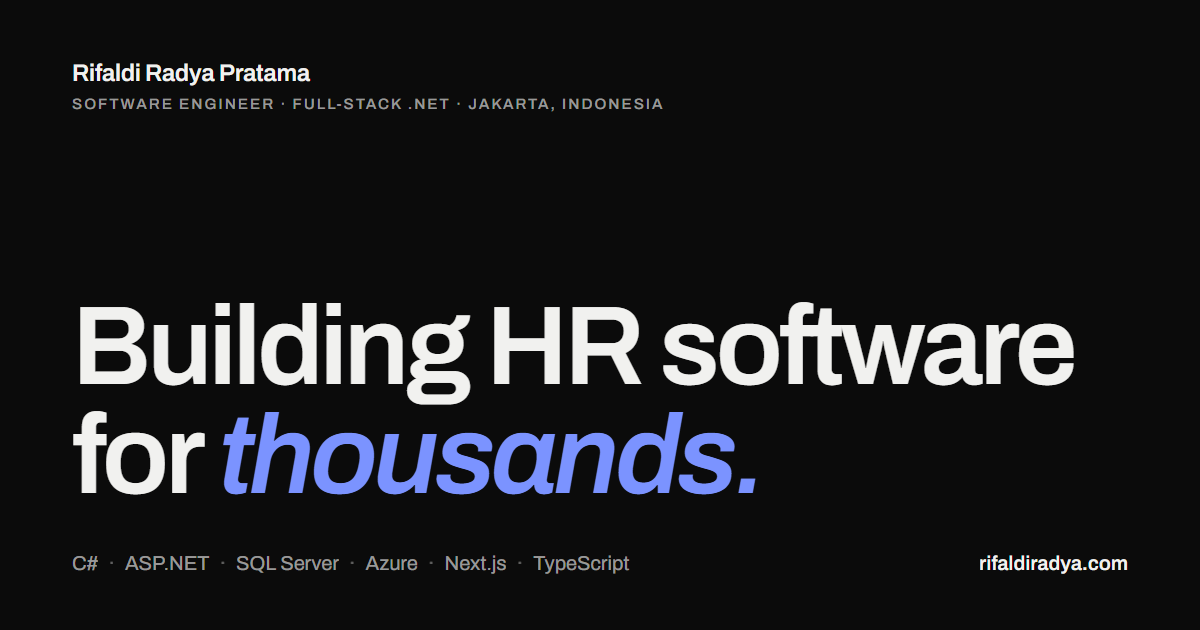
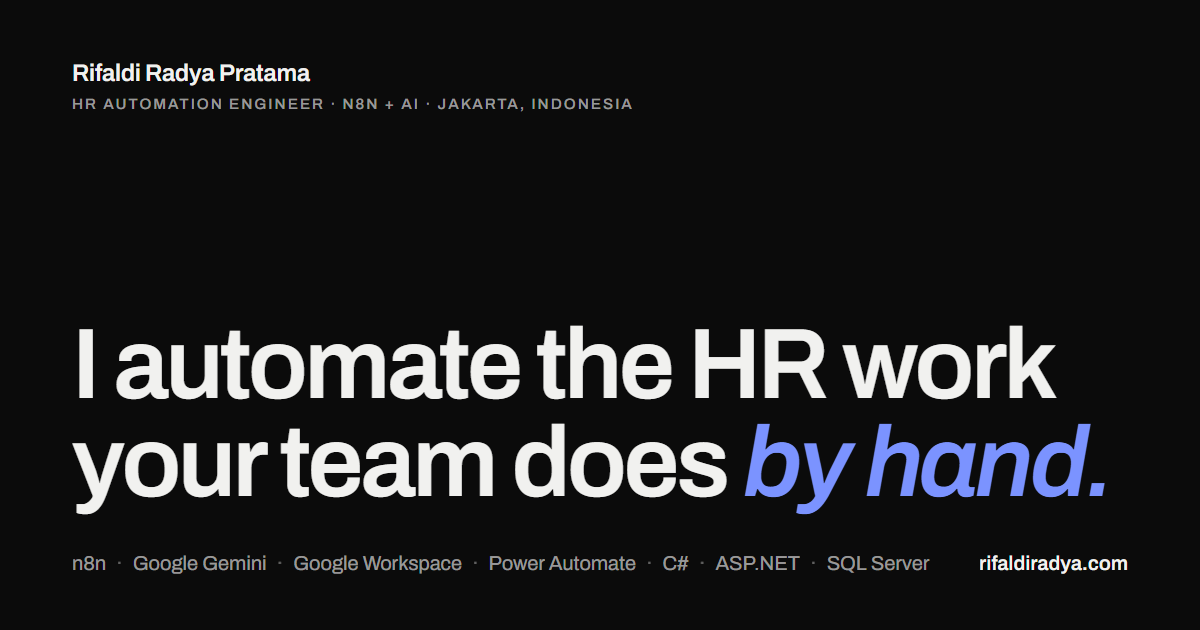
feat: reposition the site as an HR automation engineer (T-44)
Hero, availability, SEO titles/descriptions, OG images, Highlight meta,
Contact copy and both automation-client email bodies (EN/ID). JSON-LD
jobTitle is HR Automation Engineer with no worksFor; the stack line leads
with n8n and keeps .NET as proof. The employer stays only in About (D-41).
Contact puts the project email first (D-44).

Changed region(s): [[0.0617, 0.4825, 0.925, 0.8143], [0.0617, 0.8746, 0.7708, 0.9048], [0.0617, 0.1508, 0.555, 0.181]]

diff --git a/tests/unit/site-config.test.ts b/tests/unit/site-config.test.ts
@@ -21,20 +21,22 @@ describe("mailtoHref", () => {
 
   it("project: subject and body in the page language", () => {
     expect(mailtoHref(en, "project")).toContain(
-      "subject=Project%3A%20&body=What%20you%20need%20built%3A",
+      "subject=Project%3A%20&body=The%20HR%20process%20you%20want%20to%20automate%3A",
     );
     expect(mailtoHref(id, "project")).toContain(
-      "subject=Proyek%3A%20&body=Yang%20ingin%20dibangun%3A",
+      "subject=Proyek%3A%20&body=Proses%20HR%20yang%20ingin%20diotomasi%3A",
     );
   });
 
   it("walkthrough names the project in the subject (D-25)", () => {
     expect(mailtoHref(en, "walkthrough", "Single Sign-On")).toContain(
-      "subject=Walkthrough%3A%20Single%20Sign-On&body=Company%3A",
+      "subject=Walkthrough%3A%20Single%20Sign-On&body=Company%20and%20team%20size%3A",
     );
     expect(mailtoHref(id, "walkthrough", "HR System")).toContain(
-      "subject=Walkthrough%3A%20HR%20System&body=Perusahaan%3A",
+      "subject=Walkthrough%3A%20HR%20System&body=Perusahaan%20dan%20jumlah%20karyawan%3A",
     );
+    // The walkthrough body asks automation clients about their process, not a hiring role.
+    expect(decodeURIComponent(mailtoHref(en, "walkthrough", "x"))).not.toContain("hiring");
   });
 
   it("encodes characters that would break the query", () => {
@@ -55,5 +57,29 @@ describe("siteConfig", () => {
 
   it("serves the CV from public/cv", () => {
     expect(siteConfig.cvPath).toMatch(/^\/cv\/[a-z-]+\.pdf$/);
+  });
+});
+
+// D-41: the employer is track record in About (and the CV), never headline copy, meta or schema.
+describe("employer name", () => {
+  const paths = (value: unknown, prefix = ""): [string, string][] =>
+    typeof value === "string"
+      ? [[prefix, value]]
+      : Object.entries(value as object).flatMap(([key, child]) =>
+          paths(child, prefix ? `${prefix}.${key}` : key),
+        );
+
+  it.each([
+    ["en", en],
+    ["id", id],
+  ] as const)("%s dictionary names it only in about.p1", (_, dict) => {
+    const hits = paths(dict)
+      .filter(([, text]) => /panasonic/i.test(text))
+      .map(([path]) => path);
+    expect(hits).toEqual(["about.p1"]);
+  });
+
+  it("is not in the site config (hero stack, JSON-LD)", () => {
+    expect(JSON.stringify(siteConfig)).not.toMatch(/panasonic/i);
   });
 });

diff --git a/tests/e2e/home.spec.ts b/tests/e2e/home.spec.ts
@@ -23,7 +23,7 @@ test("chapters in order: Hero, Selected work, About, Highlight, Contact", async 
   expect(ids.filter((id) => id !== "work")).toEqual(["top", "about", "highlight", "contact"]);
   expect(ids.indexOf("work")).toBeLessThan(2);
   await expect(page.getByRole("heading", { level: 1 })).toHaveText(
-    "Building HR software for thousands.",
+    "I automate the HR work your team does by hand.",
   );
 });
 
@@ -53,12 +53,18 @@ test("mailto: subject and body per kind and page language (F5)", async ({ page }
   await expect(role).toHaveAttribute("data-kind", "role");
   await expect(contact(page).getByRole("link", { name: "Email about a project" })).toHaveAttribute(
     "href",
-    /subject=Project%3A%20&body=What%20you%20need%20built%3A/,
+    /subject=Project%3A%20&body=The%20HR%20process%20you%20want%20to%20automate%3A/,
   );
+
+  // D-44: the project email is the primary Contact action, the role email second.
+  await expect(contact(page).locator(".acts a")).toHaveText([
+    "Email about a project",
+    "Email about a full-time role",
+  ]);
 
   await page.goto("/id");
   await expect(page.getByRole("heading", { level: 1 })).toHaveText(
-    "Membangun software HR untuk ribuan karyawan.",
+    "Otomasi pekerjaan HR yang masih manual.",
   );
   await expect(
     contact(page).getByRole("link", { name: "Email soal posisi full-time" }),
@@ -112,7 +118,7 @@ test.describe("phone with the cookie banner (AC-1)", () => {
     const cover = (await banner.boundingBox())!;
 
     for (const target of [
-      hero(page).getByText("Software engineer · Full-stack .NET"),
+      hero(page).getByText("HR automation engineer · n8n + AI"),
       page.getByRole("heading", { level: 1 }),
       hero(page).getByRole("link", { name: "Email me" }),
     ]) {

diff --git a/lib/site-config.ts b/lib/site-config.ts
@@ -2,11 +2,20 @@
 export const siteConfig = {
   name: "Rifaldi Radya Pratama",
   shortName: "Rifaldi R.P.",
-  role: "Software Engineer",
-  /** JSON-LD worksFor (Delta PRD section 9); Panasonic may be named, its screens stay internal. */
-  employer: "PT Panasonic Manufacturing Indonesia",
-  /** JSON-LD knowsAbout (Delta PRD section 9). */
-  knowsAbout: ["C#", "ASP.NET", "SQL Server", "Microsoft Azure", "Next.js", "TypeScript"],
+  /** JSON-LD jobTitle. No worksFor: the employer is named only in About and the CV (D-41). */
+  role: "HR Automation Engineer",
+  /** JSON-LD knowsAbout (CHANGE v2.2.0, Delta PRD section 9): automation first, .NET as proof. */
+  knowsAbout: [
+    "HR automation",
+    "n8n",
+    "Google Gemini",
+    "Google Workspace",
+    "Power Automate",
+    "HRMS",
+    "C#",
+    "ASP.NET",
+    "SQL Server",
+  ],
   contactEmail: "hello@rifaldiradya.com",
   /** Static web CV (D-14): no phone number, replaced through a PATCH. */
   cvPath: "/cv/rifaldi-radya-pratama-cv.pdf",
@@ -15,8 +24,16 @@ export const siteConfig = {
   initials: "RR",
   /** Matches "Last updated" on S-03; the privacy pages' sitemap lastmod. */
   privacyUpdated: "2026-10-17",
-  /** Hero stack line (Delta PRD section 4). */
-  stack: ["C#", "ASP.NET", "SQL Server", "Azure", "Power Automate", "Next.js", "TypeScript"],
+  /** Hero stack line (CHANGE v2.2.0, Delta PRD section 4); scripts/og-images.mts reads the same list. */
+  stack: [
+    "n8n",
+    "Google Gemini",
+    "Google Workspace",
+    "Power Automate",
+    "C#",
+    "ASP.NET",
+    "SQL Server",
+  ],
   social: {
     linkedin: "https://www.linkedin.com/in/rifaldiradya",
     /** Empty = not rendered anywhere (D-19). */

diff --git a/components/site/ContactChapter.tsx b/components/site/ContactChapter.tsx
@@ -7,7 +7,7 @@ import type { Dictionary } from "@/i18n";
 import { richText } from "@/i18n/rich";
 import { siteConfig } from "@/lib/site-config";
 
-// Delta APP_FLOW S-01 bab 5: two mailto actions (role, project), then the ways to reach me.
+// Delta APP_FLOW S-01 bab 5: two mailto actions (project, role; D-44), then the ways to reach me.
 // Copy email lives only here (D-17); GitHub only once it is filled in (D-19).
 // `more` is the closing chapter of the Work page (S-02 step 5, option-b.html #more): its own
 // heading and only the two mailto actions.
@@ -34,11 +34,12 @@ export function ContactChapter({
         <p className="pitch">{ct.pitch}</p>
 
         <div className="acts">
-          <MailtoLink dict={dict} kind="role" location={location} variant="primary">
-            {ct.role}
-          </MailtoLink>
-          <MailtoLink dict={dict} kind="project" location={location} variant="soft">
+          {/* D-44: automation clients first, the full-time role path second. */}
+          <MailtoLink dict={dict} kind="project" location={location} variant="primary">
             {ct.project}
+          </MailtoLink>
+          <MailtoLink dict={dict} kind="role" location={location} variant="soft">
+            {ct.role}
           </MailtoLink>
         </div>
 

diff --git a/tests/unit/seo.test.ts b/tests/unit/seo.test.ts
@@ -104,14 +104,25 @@ describe("JSON-LD", () => {
     expect(person).toMatchObject({
       "@type": "Person",
       name: "Rifaldi Radya Pratama",
-      jobTitle: "Software Engineer",
+      jobTitle: "HR Automation Engineer",
       url: "https://rifaldiradya.com/id",
-      worksFor: { "@type": "Organization", name: "PT Panasonic Manufacturing Indonesia" },
-      knowsAbout: ["C#", "ASP.NET", "SQL Server", "Microsoft Azure", "Next.js", "TypeScript"],
+      knowsAbout: [
+        "HR automation",
+        "n8n",
+        "Google Gemini",
+        "Google Workspace",
+        "Power Automate",
+        "HRMS",
+        "C#",
+        "ASP.NET",
+        "SQL Server",
+      ],
       // GitHub is empty, so only LinkedIn (D-19, AC-13).
       sameAs: ["https://www.linkedin.com/in/rifaldiradya", "https://github.com/riyama46"],
     });
     expect(website).toMatchObject({ "@type": "WebSite", inLanguage: "id-ID" });
+    // D-41: the employer is named only in About and the CV, never in structured data.
+    expect(person).not.toHaveProperty("worksFor");
   });
 
   it("work page: an ItemList of the projects in page order", () => {

diff --git a/lib/seo/jsonld.ts b/lib/seo/jsonld.ts
@@ -22,7 +22,6 @@ export function homeJsonLd(lang: Locale, origin: string): Json {
         url: `${origin}${localePath("/", lang)}`,
         jobTitle: siteConfig.role,
         email: `mailto:${siteConfig.contactEmail}`,
-        worksFor: { "@type": "Organization", name: siteConfig.employer },
         knowsAbout: [...siteConfig.knowsAbout],
         // GitHub joins only once it is filled in (D-19).
         sameAs: [siteConfig.social.linkedin, siteConfig.social.github].filter(Boolean),

diff --git a/docs/changes/v2.2.0-hr-automation/CHANGE.md b/docs/changes/v2.2.0-hr-automation/CHANGE.md
@@ -71,9 +71,9 @@ Pal is moving their freelance service to HR / people-ops workflow automation (n8
   | Page | Title | Description |
   | --- | --- | --- |
   | `/` | Rifaldi Radya Pratama, HR Automation Engineer (n8n + AI) | I build n8n and AI workflows that automate onboarding and HR admin, backed by four years on the HRMS of a 13-company manufacturing group. Based in Jakarta. |
-  | `/work` | Work: HR Automation, HR Systems, Websites \| Rifaldi Radya Pratama | HR automations built with n8n and AI, an enterprise HRMS, websites and AI tools by Rifaldi Radya Pratama. Open a row for what it is, what I did and the stack. |
+  | `/work` | Work: HR Automation and HR Systems \| Rifaldi Radya Pratama | HR automations with n8n and AI, an enterprise HRMS, websites and AI tools by Rifaldi Radya Pratama. Open a row for what it is, what I did and the stack. |
   | `/id` | Rifaldi Radya Pratama, HR Automation Engineer (n8n + AI) | Workflow n8n dan AI untuk otomasi onboarding dan administrasi HR, berbekal empat tahun di HRMS grup manufaktur 13 perusahaan. Berbasis di Jabodetabek. |
-  | `/id/work` | Karya: Otomasi HR, Sistem HR, Website \| Rifaldi Radya Pratama | Otomasi HR dengan n8n dan AI, HRMS enterprise, website, dan alat AI karya Rifaldi Radya Pratama. Buka satu baris untuk melihat detailnya. |
+  | `/id/work` | Karya: Otomasi HR dan Sistem HR \| Rifaldi Radya Pratama | Otomasi HR dengan n8n dan AI, HRMS enterprise, website, dan alat AI karya Rifaldi Radya Pratama. Buka satu baris untuk melihat detailnya. |
 
   OG alt: "Rifaldi Radya Pratama, HR automation engineer. I automate the HR work your team does by hand." / "Rifaldi Radya Pratama, HR automation engineer. Otomasi pekerjaan HR yang masih manual." **Keyword hypothesis:** "HR automation n8n", "n8n onboarding automation", "HR automation freelancer Indonesia" + personal name. **JSON-LD Person:** `jobTitle` "HR Automation Engineer"; no `worksFor`; `knowsAbout` HR automation, n8n, Google Gemini, Google Workspace, Power Automate, HRMS, C#, ASP.NET, SQL Server. Previously: "Software Engineer", `worksFor` PT Panasonic Manufacturing Indonesia, .NET-only `knowsAbout`.
 - **§12 Content dependencies:** ADDED items (Impact checklist, content tasks).
